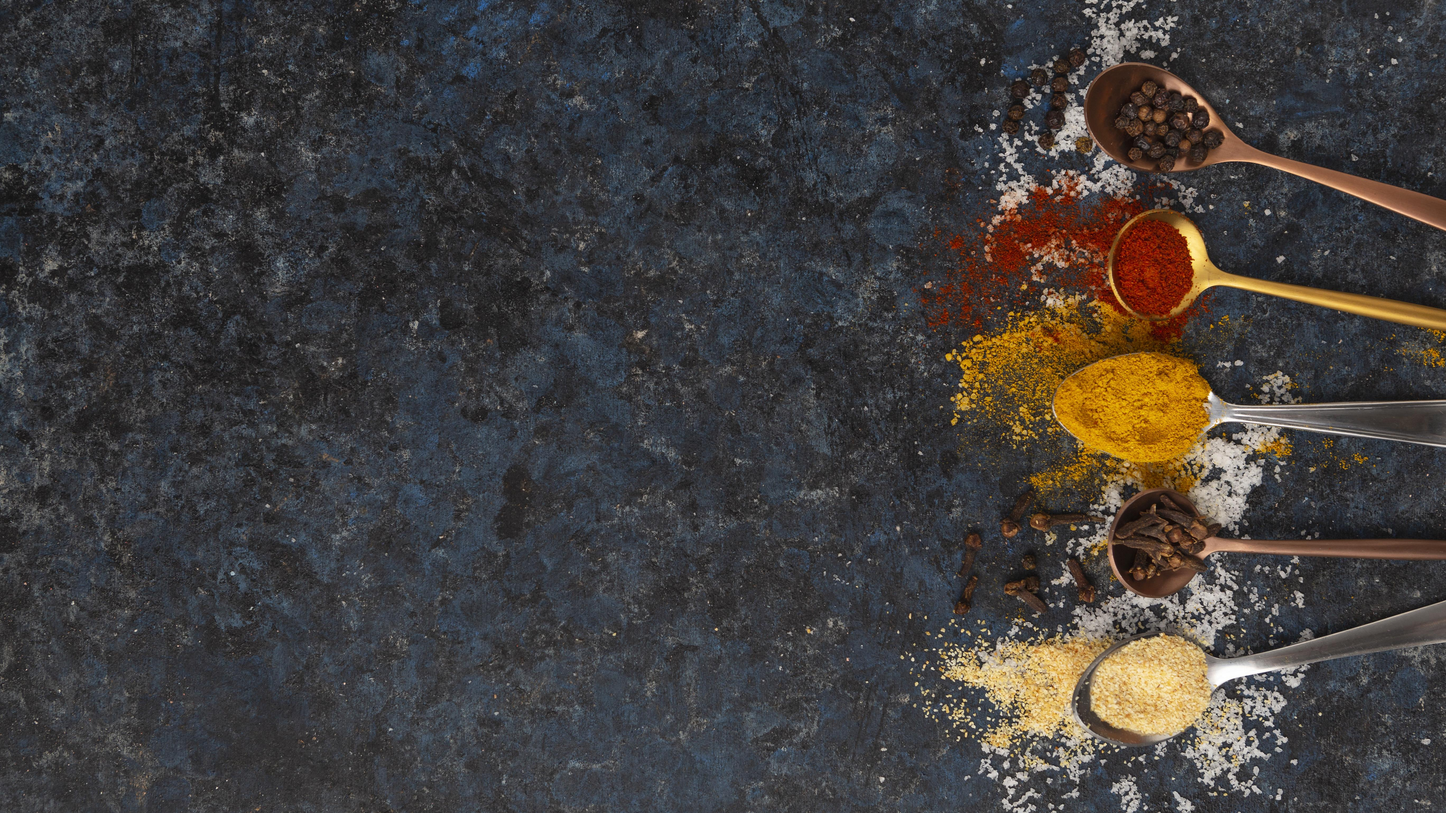
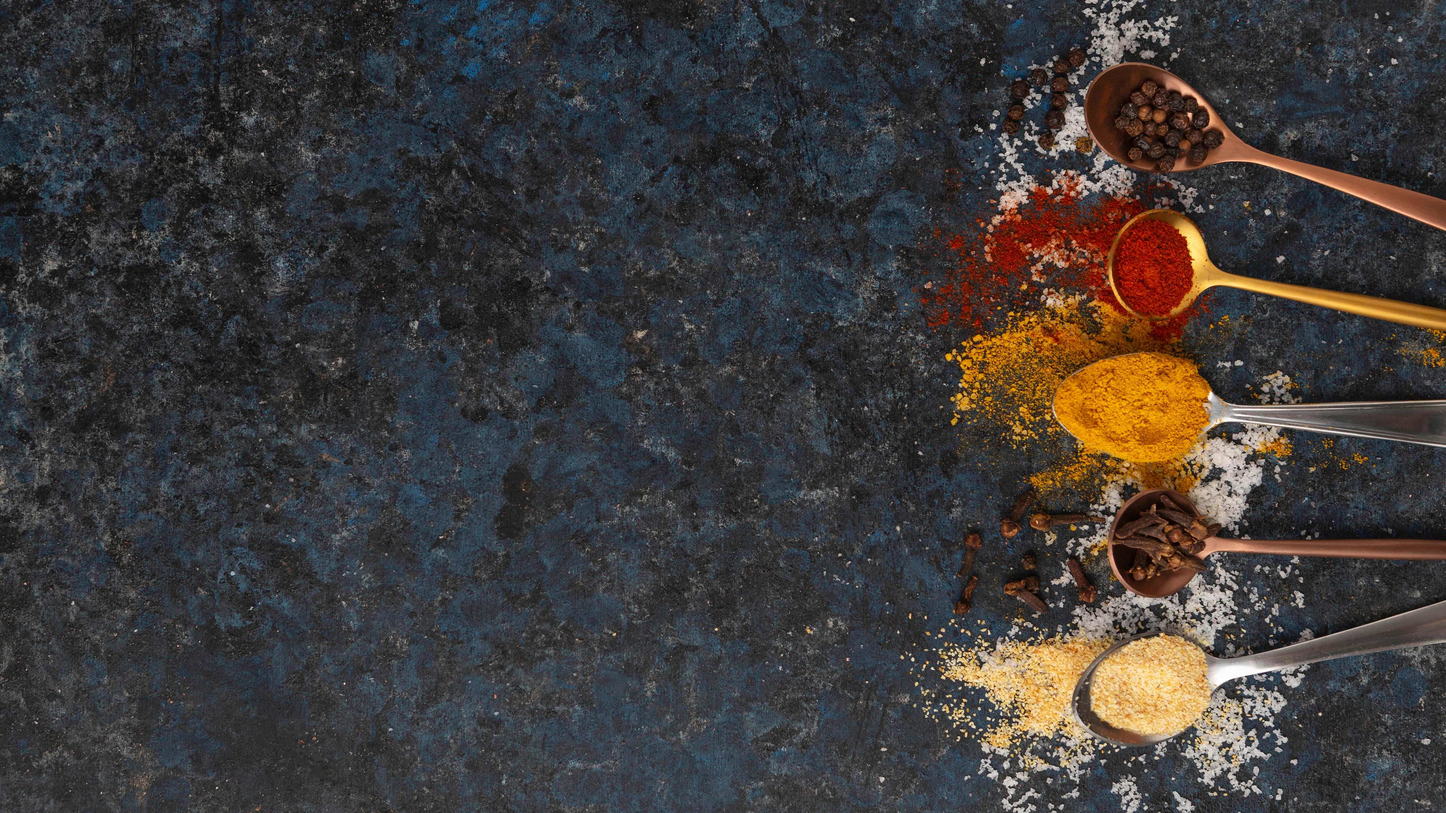
fixing css of login page

Changed region(s): [[0.6562, 0.2495, 0.8438, 0.5926]]

diff --git a/client/src/styles/DefaultLayout.css b/client/src/styles/DefaultLayout.css
@@ -73,7 +73,7 @@ li.ant-menu-item.ant-menu-item-selected span.ant-menu-title-content a {
 
 .login-page,
 .register-page {
-  background-color: green;
+  background-color: #1677ff;
   min-height: 100vh;
   display: flex;
   justify-content: center;
@@ -81,6 +81,8 @@ li.ant-menu-item.ant-menu-item-selected span.ant-menu-title-content a {
   background-image: url("../assets/bg.jpg");
   background-size: cover;
   background-repeat: no-repeat;
+  background-position: right;
+  position: relative;
 }
 .background-overlay {
   position: absolute;
